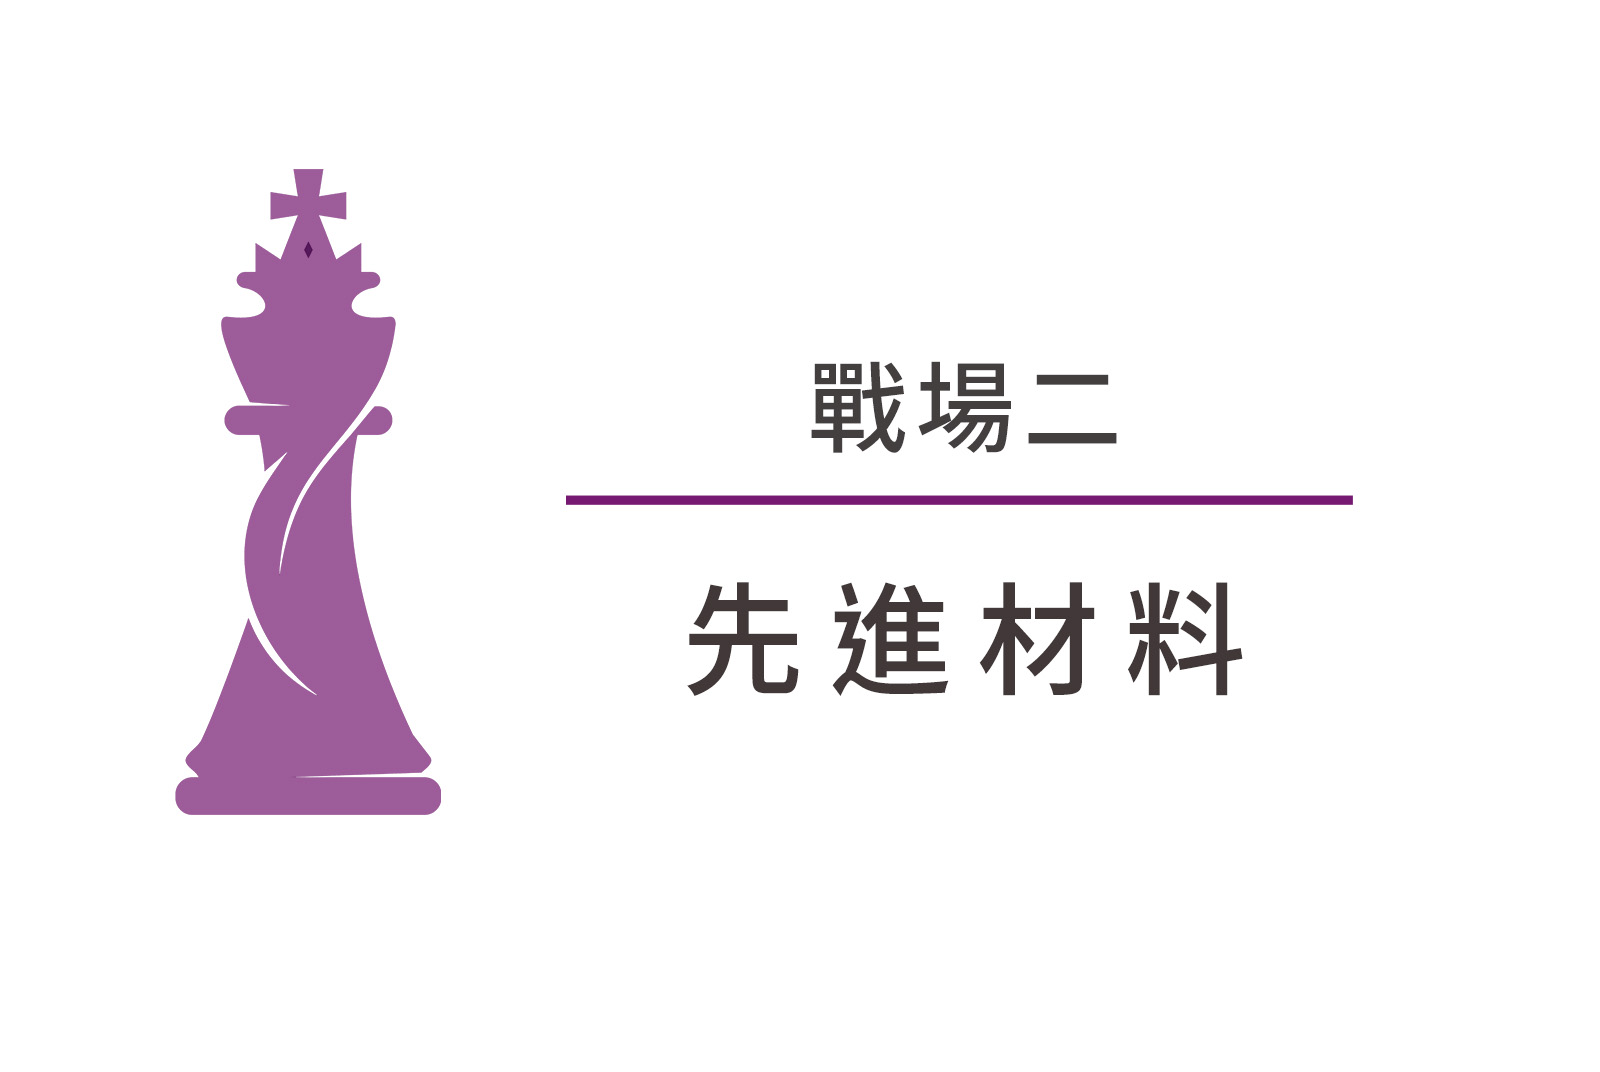
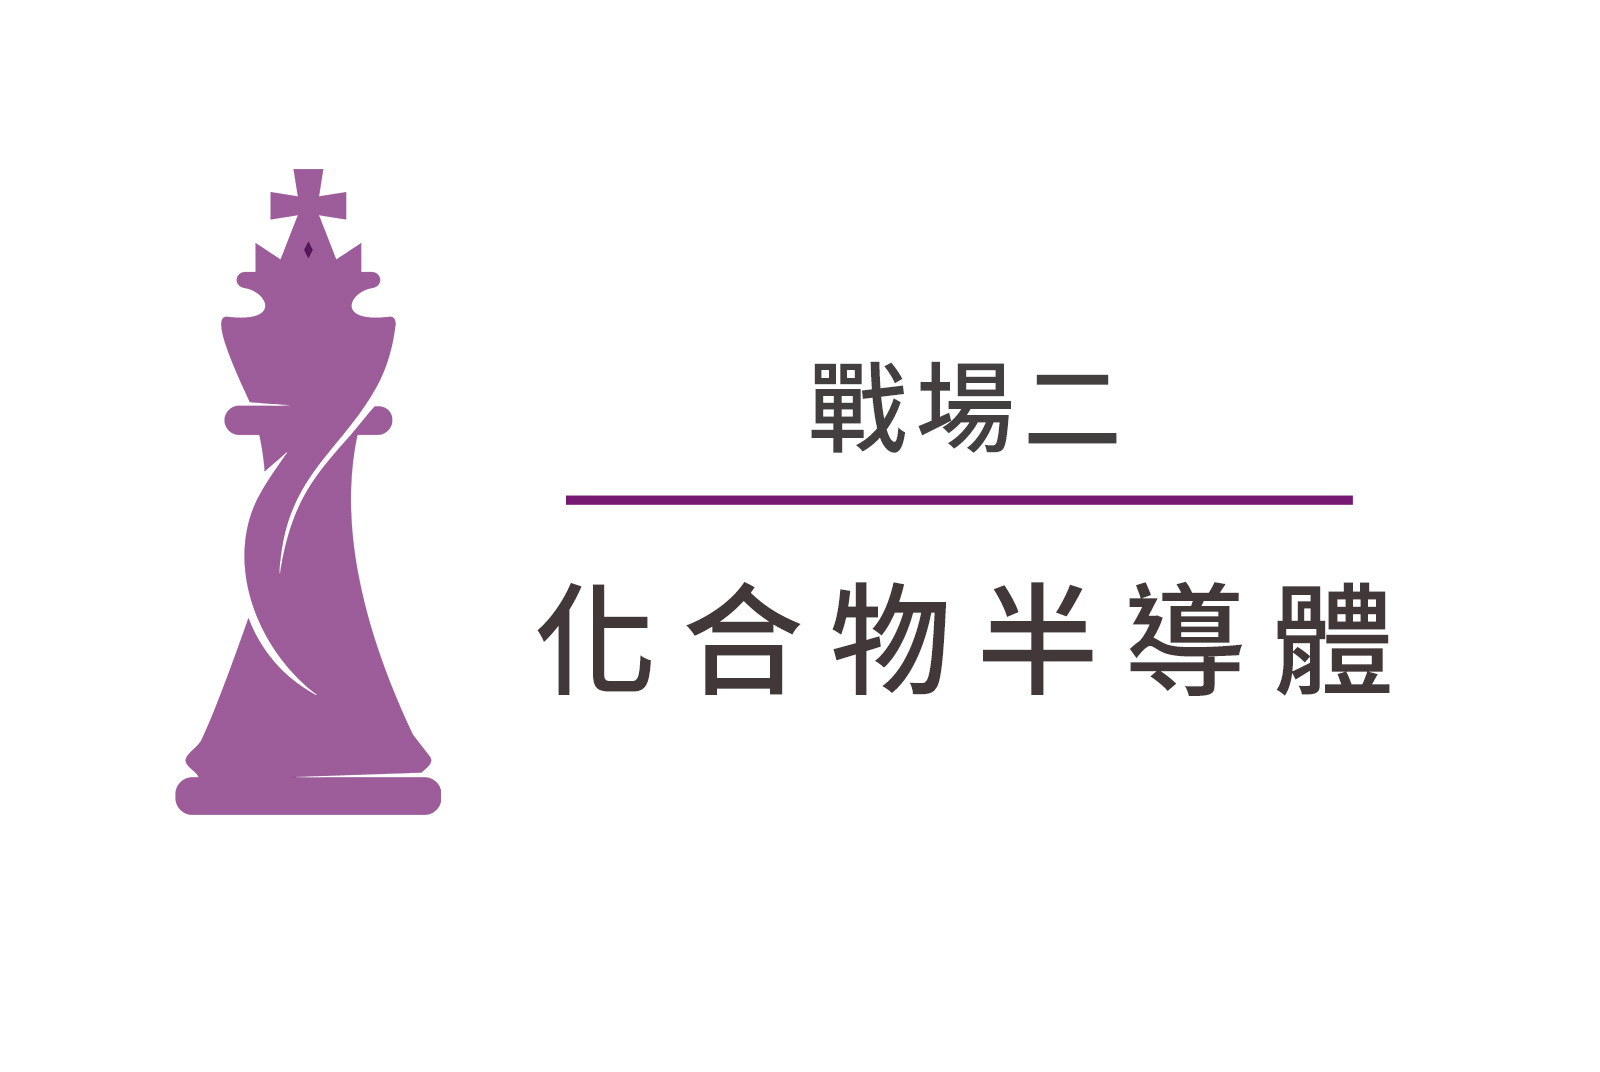
修改ga設定

Changed region(s): [[0.3438, 0.5233, 0.875, 0.6465]]

diff --git a/index.html b/index.html
@@ -15,12 +15,25 @@
   <meta property="og:title" content="稱霸晶圓新戰場  半導體領航突破新局鏈結全球">
   <meta property="og:description"
     content="半導體製造業在數十年間跨越了幾次技術革新，經歷幾次興衰起落。面對全球晶片需求增長，加上高階設備投資，全球晶圓廠設備年年攀升。面對終端應用市場需求增加面對終端應用市場需求增加，半導體製造商除了擴廠、增加良率，還要考量製程當中的資源耗費問題。全球半導體產業如何以世代關鍵技術，迎接未來數十年產業發展的黃金時代？">
-  <meta property="og:image" content="https://event.cw.com.tw/2022semi/assets/images/meta.jpg">
+  <meta property="og:image" content="https://event.cw.com.tw/2022semi/assets/images/meta2.jpg">
   <link rel="shortcut icon" href="https://www.cw.com.tw/assets_new/img/favicon.ico" type="image/x-icon" />
 
   <link rel="stylesheet" href="assets/css/normalize.css">
   <link rel="stylesheet" href="assets/css/bootstrap.min.css">
-
+<!-- FB -->
+  <meta property="fb:admins" content="597428623" />
+  <meta property="fb:app_id" content="394823307282039" />
+  <meta property="fb:pages" content="127628276929" />
+  <meta property="fb:pages" content="170417986326226" />
+  <meta property="fb:pages" content="384310728422742" />
+  <meta property="fb:pages" content="145768528923435" />
+  <meta property="fb:pages" content="1651945698439380" />
+  <meta property="fb:pages" content="493525064166133" />
+  <meta property="fb:pages" content="167548813932" />
+  <meta property="fb:pages" content="1842731786010943" />
+  <meta property="fb:pages" content="1751961571765479" />
+  <meta name="alexaVerifyID" content="vYzPYY_Q0SVO5PTE4WIm1lW7f2g" />
+	
   <!-- 樣式css -->
   <link rel="stylesheet" href="assets/css/style.min.css">
 
@@ -89,6 +102,23 @@
   </script>
   <!--gtmEnd-->
 
+	<!-- Facebook Pixel Code -->
+<script>
+!function(f,b,e,v,n,t,s)
+{if(f.fbq)return;n=f.fbq=function(){n.callMethod?
+n.callMethod.apply(n,arguments):n.queue.push(arguments)};
+if(!f._fbq)f._fbq=n;n.push=n;n.loaded=!0;n.version='2.0';
+n.queue=[];t=b.createElement(e);t.async=!0;
+t.src=v;s=b.getElementsByTagName(e)[0];
+s.parentNode.insertBefore(t,s)}(window, document,'script',
+'https://connect.facebook.net/en_US/fbevents.js');
+fbq('init', '2966715073440424');
+fbq('track', 'PageView');
+</script>
+<noscript><img height="1" width="1" style="display:none"
+src="https://www.facebook.com/tr?id=2966715073440424&ev=PageView&noscript=1"
+/></noscript>
+<!-- End Facebook Pixel Code -->
 
 </head>
 
@@ -96,7 +126,7 @@
 
 
   <!-- op -->
-  <div class="main-kv" id="main-kv" eventCategory="cwdigiteam" eventAction="2022semiAction" eventLabel="index">
+  <div class="main-kv label" id="main-kv" eventCategory="cwdigiteam" eventAction="2022semiAction" eventLabel="index">
 
     <div class="bgBox">
       <div class="bgExample">
@@ -122,7 +152,7 @@
   <div class="main-container">
 
     <!-- 圖表 -->
-    <section class="section-chart" eventCategory="cwdigiteam" eventAction="2022semiAction" eventLabel="foreword">
+    <section class="section-chart label" eventCategory="cwdigiteam" eventAction="2022semiAction" eventLabel="foreword">
       <div class="container">
         <div class="row">
           <div class="col-md-10 offset-md-1">
@@ -133,7 +163,7 @@
               <div class="row align-center">
                 <div class="col-md-4"><img src="assets/images/a1.jpg" alt=""></div>
                 <div class="col-md-8">
-                  <p>SEMI於2022年7月發布的半導體設備預測報告指出，受惠於半導體製造及封測設備需求皆大幅成長，其中：晶圓製造設備，含晶圓加工、晶圓廠設施和光罩設備，2022年支出將衝上1,010 億美元業界新紀錄，增幅達15.4%，2023年設備採購預期將維持1,000億美元以上。若以地區來看，台灣設備支出將於2022年和2023年重回世界第一。</p>
+                  <p>SEMI於2022年7月發布的半導體設備預測報告指出，受惠於半導體製造及封測設備需求皆大幅成長，其中：晶圓製造設備，含晶圓加工、晶圓廠設施和光罩設備，2022年支出將衝上1,010 億美元業界新紀錄，增幅達15.4%，2023年設備採購預期將維持1,000億美元以上。</p>
                 </div>
               </div>
             </div>
@@ -142,7 +172,7 @@
                 <div class="col-md-4"><img src="assets/images/a2.jpg" alt=""></div>
                 <!-- <div class="col-md-4"> <h3><span>戰場二：</span><span>先進材料</span></h3></div> -->
                 <div class="col-md-8">
-                  <p>無所不在的感測、通訊與功率解決方案需求，讓先進材料的重要性暴增。從資料中心裡的伺服器、網通設備，到手機RF 功率放大器、供應電力的功率元件，都因化合物半導體的普遍運用，在性能上出現重大突破。</p>
+                  <p>綠能、電動車、5G AIoT應用、智慧醫療跟航太等產業的蓬勃發展將拉升市場對碳化矽（SiC）跟氮化鎵（GaN）等化合物半導體的需求，從資料中心裡的伺服器、網通設備，到手機RF 功率放大器、供應電力的功率元件，也都因化合物半導體的普遍運用，在性能上出現重大突破。</p>
                   </div>
               </div>
             </div>
@@ -171,7 +201,7 @@
     </section>
 
     <!-- 文章 -->
-    <section class="section-article" eventCategory="cwdigiteam" eventAction="2022semiAction" eventLabel="article">
+    <section class="section-article label" eventCategory="cwdigiteam" eventAction="2022semiAction" eventLabel="article">
       <div class="container">
         <div class="row">
 
@@ -180,61 +210,61 @@
             <div class="row">
               <div class="col-md-4">
                 <div class="article-item">
-                  <a href="https://www.cw.com.tw/article/5121696" target="_blank" eventCategory="cwdigiteam" eventAction="2022semiAction" eventLabel="button1">
+                  <a href="https://www.cw.com.tw/article/5121696" target="_blank" class="label" eventCategory="cwdigiteam" eventAction="2022semiAction" eventLabel="button1">
                     <img src="https://storage.googleapis.com/www-cw-com-tw/article/202206/article-62b3d03135301."
                       alt="">
-                    <h5>半導體新戰略：提升效率、降低耗能</h5>
+                    <h5>半導體新戰略1：提升效率、降低耗能</h5>
                     <h4>看南亞科技如何把晶片變綠了</h4>
                   </a>
                 </div>
               </div>
               <div class="col-md-4">
                 <div class="article-item">
-                  <a href="https://www.cw.com.tw/article/preview/af10b070-fc17-11ec-bd70-2f31ab1549cf" target="_blank" eventCategory="cwdigiteam" eventAction="2022semiAction" eventLabel="button2">
+                  <a href="https://www.cw.com.tw/article/5122212" target="_blank" class="label" eventCategory="cwdigiteam" eventAction="2022semiAction" eventLabel="button2">
+                    <img src="assets/images/artical-7.jpg"
+                      alt="">
+                    <h5>半導體新戰略2：化合物半導體市場夯</h5>
+                    <h4>漢民科技從材料、基板、關鍵製程設備進軍世界舞台！</h4>
+                  </a>
+                </div>
+              </div>
+              <div class="col-md-4">
+                <div class="article-item">
+                  <a href="https://www.cw.com.tw/article/5122517" target="_blank"class="label" eventCategory="cwdigiteam" eventAction="2022semiAction" eventLabel="button3">
+                    <img src="https://storage.googleapis.com/www-cw-com-tw/article/202208/article-63049f84e673b.jpg"
+                      alt="">
+                    <h5>半導體新戰略3：從5G、自駕車到智慧應用&nbsp;</h5>
+                    <h4>聯電以特殊製程回應未來世界趨勢</h4>
+                  </a>
+                </div>
+              </div>
+              <div class="col-md-4">
+                <div class="article-item">
+                  <a href="https://www.cw.com.tw/article/5122257" target="_blank" class="label" eventCategory="cwdigiteam" eventAction="2022semiAction" eventLabel="button4">
+                    <img src="https://storage.googleapis.com/www-cw-com-tw/article/202208/article-62eb6dd57d975.jpg"
+                      alt="">
+                    <h5>異質整合兩大挑戰 </h5>
+                    <h4>半導體供應鏈合作為關鍵</h4>
+                  </a>
+                </div>
+              </div>
+              <div class="col-md-4">
+                <div class="article-item">
+                  <a href="https://www.cw.com.tw/article/5121855" target="_blank" class="label" eventCategory="cwdigiteam" eventAction="2022semiAction" eventLabel="button5">
                     <img src="https://storage.googleapis.com/www-cw-com-tw/article/202207/article-62c7edd466a44.jpg"
                       alt="">
-                    <h5>半導體資安的新挑戰</h5>
+                    <h5>半導體資安新挑戰</h5>
                     <h4>後疫情時代，如何全面打造半導體供應鏈數位韌性</h4>
                   </a>
                 </div>
               </div>
               <div class="col-md-4">
                 <div class="article-item">
-                  <a href="https://www.cw.com.tw/article/preview/4b6533b0-fe69-11ec-8d22-95b6b465d04e" target="_blank" eventCategory="cwdigiteam" eventAction="2022semiAction" eventLabel="button3">
+                  <a href="https://www.cw.com.tw/article/5121893" target="_blank" class="label" eventCategory="cwdigiteam" eventAction="2022semiAction" eventLabel="button6">
                     <img src="https://storage.googleapis.com/www-cw-com-tw/article/202207/article-62c799e65b644.jpg"
                       alt="">
-                    <h5>當先進製程持續突破摩爾定律</h5>
+                    <h5>當先進製程持續突破摩爾定律</h5> 
                     <h4>晶片的最後一哩路：半導體先進測試，將面臨哪些未知挑戰</h4>
-                  </a>
-                </div>
-              </div>
-              <div class="col-md-4">
-                <div class="article-item">
-                  <a href="https://www.semi.org/zh/SEMI_ESG" target="_blank" eventCategory="cwdigiteam" eventAction="2022semiAction" eventLabel="button4">
-                    <img src="assets/images/artical-4.jpg"
-                      alt="">
-                    <h5>SEMI 領航半導體產業實踐ESG</h5>
-                    <h4>朝全球淨零排放的目標邁進</h4>
-                  </a>
-                </div>
-              </div>
-              <div class="col-md-4">
-                <div class="article-item">
-                  <a href="https://www.semi.org/zh/blogs//business-markets/semiconductor-equipment-when-the-industry-decides-to-shift-gears" target="_blank" eventCategory="cwdigiteam" eventAction="2022semiAction" eventLabel="button5">
-                    <img src="assets/images/artical-5.jpg"
-                      alt="">
-                    <h5>搭上數位經濟發展浪潮</h5>
-                    <h4>半導體產業換檔再出發</h4>
-                  </a>
-                </div>
-              </div>
-              <div class="col-md-4">
-                <div class="article-item">
-                  <a href="https://www.semi.org/zh/blogs/business-markets/chipping-in-for-equipment-suppliers-the-equipment-multiplier-effect-on-chip-shortage" target="_blank" eventCategory="cwdigiteam" eventAction="2022semiAction" eventLabel="button6">
-                    <img src="assets/images/artical-6.jpg"
-                      alt="">
-                    <h5>半導體設備供應商需晶片到位，刻不容緩</h5> 
-                    <h4>從晶片短缺看設備的乘數效應</h4>
                   </a>
                 </div>
               </div>
@@ -246,12 +276,12 @@
     </section>
 
     <!-- video -->
-    <section class="section-video" id="video" eventCategory="cwdigiteam" eventAction="2022semiAction" eventLabel="video">
+    <section class="section-video label" id="video" eventCategory="cwdigiteam" eventAction="2022semiAction" eventLabel="video">
       <div class="container">
         <div class="row">
           <div class="col-md-10 offset-md-1">
             <div class="embed-responsive embed-responsive-16by9" data-aos="fade-up" data-aos-duration="1500">
-              <iframe class="embed-responsive-item" src="https://www.youtube.com/embed/7pRmR3EtwNg"
+              <iframe class="embed-responsive-item" src="https://www.youtube.com/embed/4Hvqupb6zj4"
                 title="YouTube video player" frameborder="0"
                 allow="accelerometer; autoplay; clipboard-write; encrypted-media; gyroscope; picture-in-picture"
                 allowfullscreen></iframe>
@@ -262,17 +292,16 @@
     </section>
 
     <!-- info -->
-    <section class="section-info" eventCategory="cwdigiteam" eventAction="2022semiAction" eventLabel="action">
+    <section class="section-info label" eventCategory="cwdigiteam" eventAction="2022semiAction" eventLabel="action">
       <div class="container">
         <div class="row">
           <div class="col-md-8 offset-md-2">
             <h2 data-aos="fade-up" data-aos-duration="1500">SEMICON Taiwan 2022國際半導體展</h2>
-            <p>全台年度最大半導體盛事SEMICON Taiwan
-              2022國際半導體展將於9月14日至16日於台北南港展覽館一館盛大登場。今年展覽規模亦再創27年新高，吸引700家國內外廠商參與，共計推出2,400個展覽攤位。探討台灣半導體產業的七大強項，包括先進製程、異質整合、化合物半導體、車用晶片、智慧製造、ESG永續、半導體資安等發展趨勢，持續引領全球半導體產業下世代關鍵技術之發展交流，以迎接未來數十年產業發展的黃金時代。
+            <p>全台年度最大半導體盛事SEMICON Taiwan 2022國際半導體展將於9月14日至16日於台北南港展覽館一館盛大登場。今年展覽規模亦再創27年新高，吸引700家國內外廠商參與，共計推出2,400個展覽攤位。探討全球半導體產業重要的七大議題，包括先進製程、異質整合、化合物半導體、車用晶片、智慧製造、ESG永續、半導體資安等發展趨勢，持續引領全球半導體產業下世代關鍵技術之發展交流，以迎接未來數十年產業發展的黃金時代。
             </p>
 
             <div class="more">
-              <a href="http://semicontaiwan.org/zh/" target="_blank" eventCategory="cwdigiteam" eventAction="2022semiAction" eventLabel="button7">瞭解更多</a>
+              <a href="http://semicontaiwan.org/zh/" target="_blank" class="label" eventCategory="cwdigiteam" eventAction="2022semiAction" eventLabel="button7">瞭解更多</a>
             </div>
 
 
